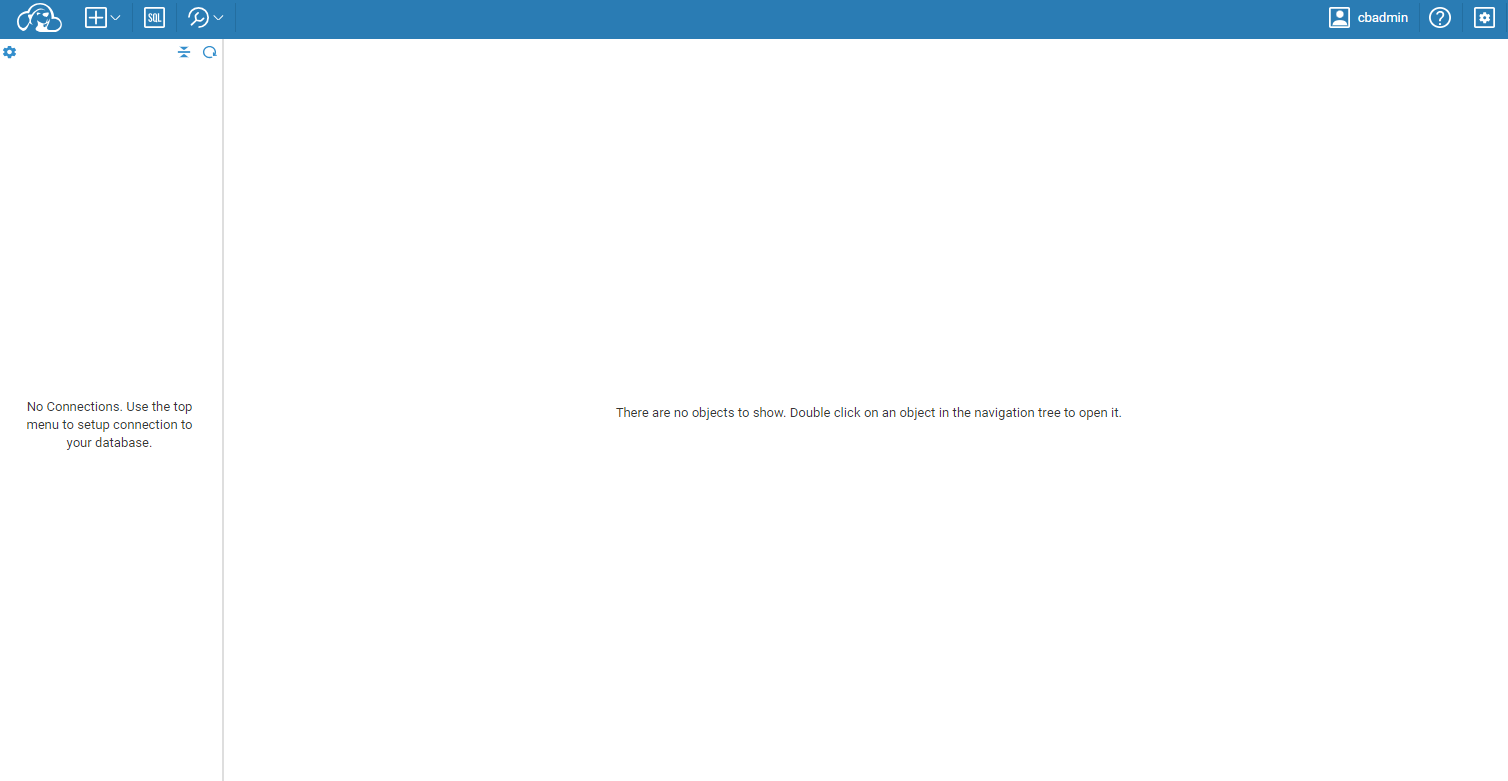
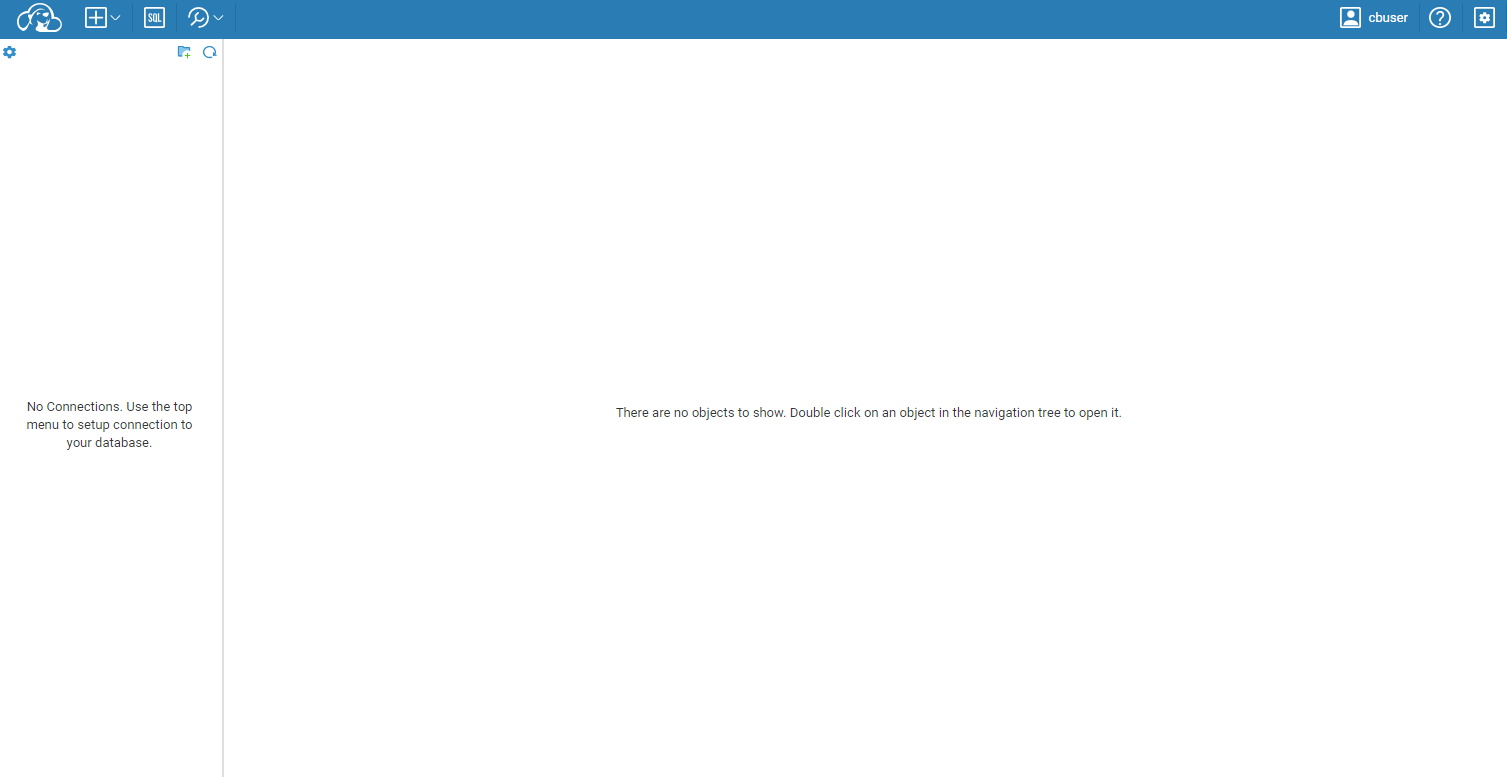
諸変更

Changed region(s): [[0.4054, 0.5251, 0.7485, 0.556], [0.0, 0.4942, 0.1248, 0.5869], [0.8733, 0.0, 0.998, 0.0618]]

diff --git a/README.md b/README.md
@@ -11,5 +11,7 @@ docker compose up -d
 # Access
 
 - [http://localhost:8888/](http://localhost:8888/)
+  - User:`cbuser`
+  - Password:`password`
 
 ![home](./image/home.png)
